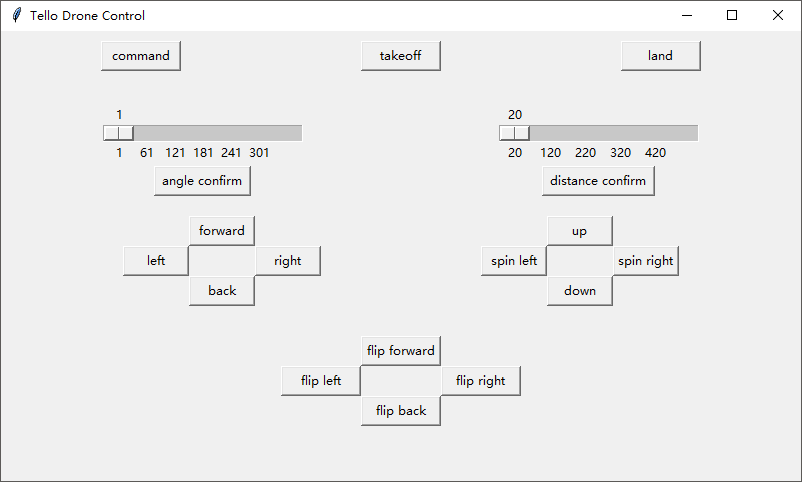
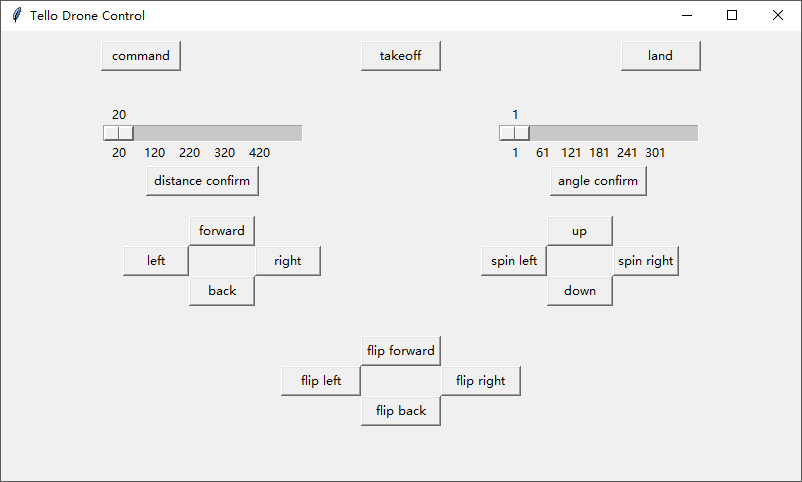
exchange the position of the two scrollbar and the confirm button

diff --git a/Simple-tello-control-GUI/tello-control-GUI.py b/Simple-tello-control-GUI/tello-control-GUI.py
@@ -69,7 +69,7 @@ def speed_change():
     a=str(angle_change.get())
     print('rotate angle set: ', a)
 angle=Button(frame_scale,text='angle confirm',padx=4,command=angle_change)
-angle.grid(row=1, column=0)
+angle.grid(row=1, column=1)
 
 # scrollbar to set the distance to fly
 distance_change=Scale(frame_scale,from_=20,to=500,orient=HORIZONTAL,tickinterval=100,resolution=10,length=200)
@@ -78,7 +78,7 @@ def speed_change():
     d=str(distance_change.get())
     print('flying distance set: ', d)
 distance=Button(frame_scale,text='distance confirm',padx=4,command=speed_change)
-distance.grid(row=1, column=1)
+distance.grid(row=1, column=0)
 
 
 frame0.pack()
